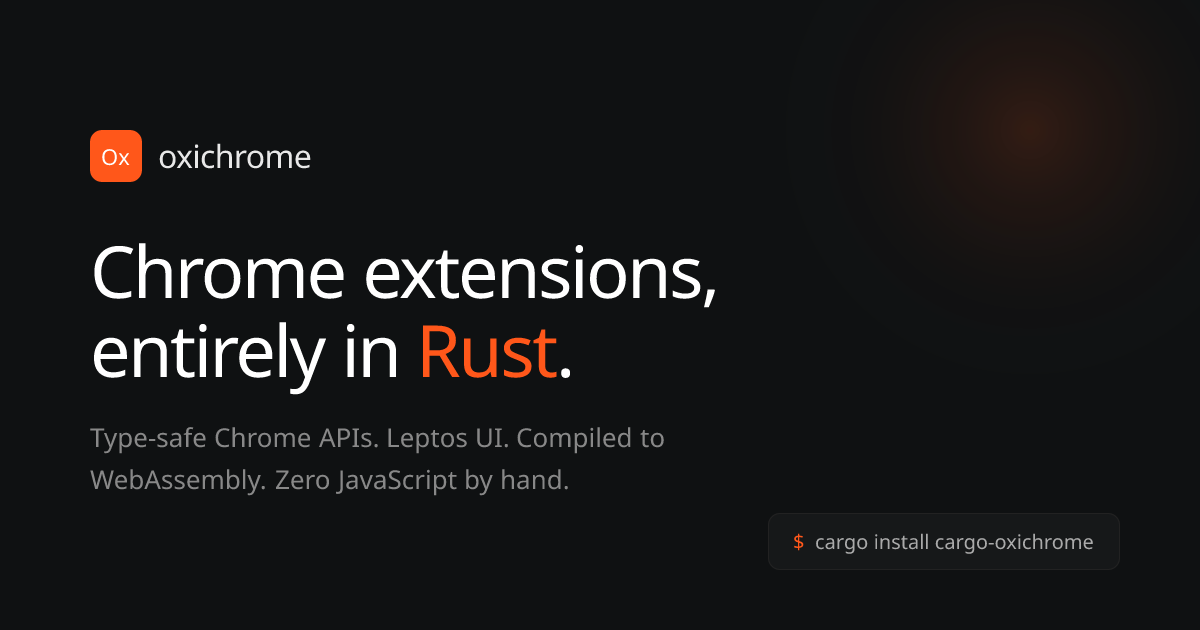
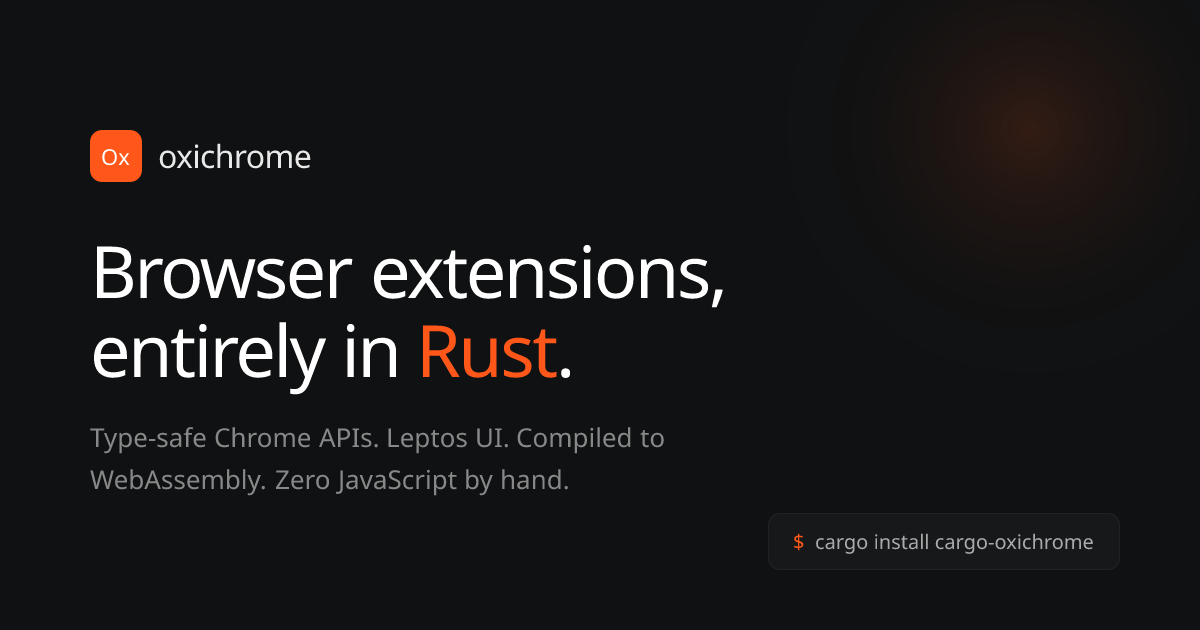
feat: update OG image to show Browser

Changed region(s): [[0.0617, 0.3921, 0.6167, 0.4825]]

diff --git a/README.md b/README.md
@@ -5,7 +5,7 @@
 [![Manifest V3](https://img.shields.io/badge/chrome-Manifest%20V3-4285F4.svg)](https://developer.chrome.com/docs/extensions/develop/migrate/what-is-mv3)
 [![Website](https://img.shields.io/badge/website-oxichrome.dev-ff6600.svg)](https://oxichrome.dev)
 
-![oxichrome](assets/og.png)
+![oxichrome](https://raw.githubusercontent.com/0xsouravm/oxichrome/main/assets/og.png)
 
 Write browser extensions entirely in Rust, compiled to WebAssembly. Chrome and Firefox.
 